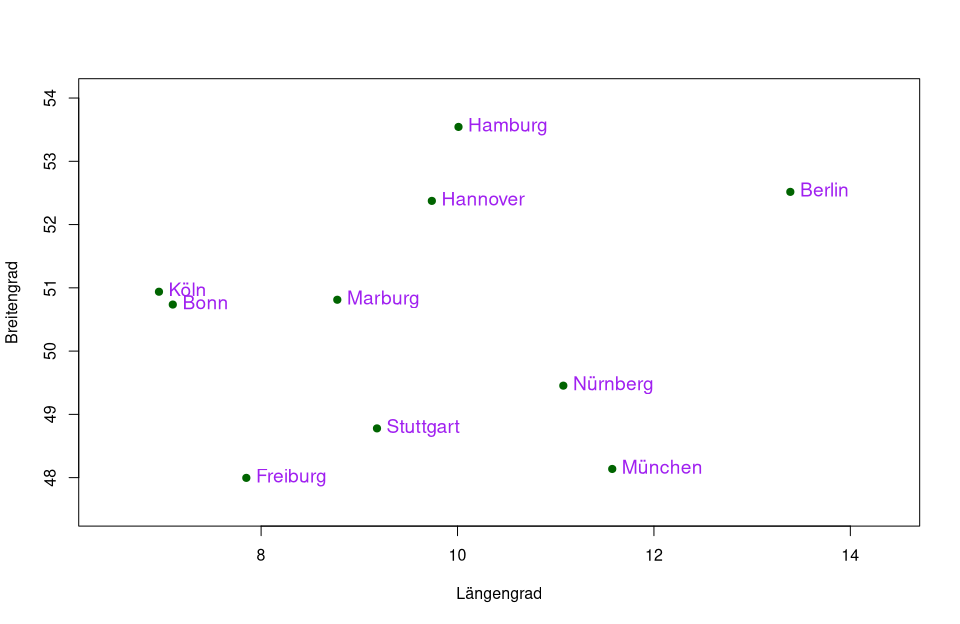
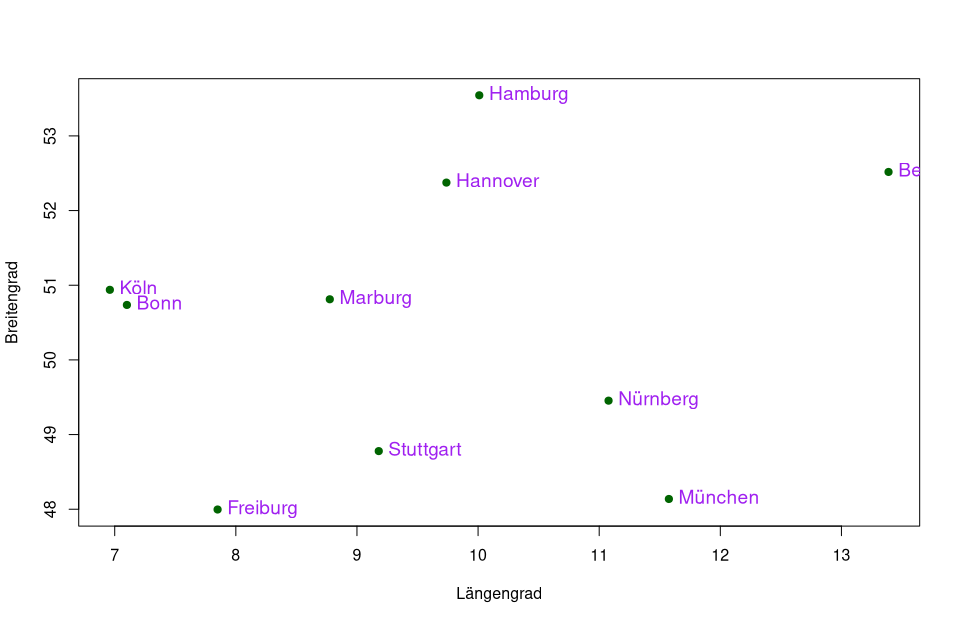
add r-spielerei and a lot of typos

diff --git a/docs/units/_unit04/unit04-02_sitzung.md b/docs/units/_unit04/unit04-02_sitzung.md
@@ -202,7 +202,6 @@ hist(r9, main='', col=rev(terrain.colors(10)), xlim=c(0,125000), breaks=seq(0, 1
 *Abbildung 04-02-04: 3x3 Matrix der unterschiedlichen Zonen-Histogramme*
 
 
-
 ## Distanz
 
 Als Distanz wird die Entfernung von zwei Positionen bezeichnet. Sie kann zunächst einmal als ein zentrales Konzept der Geographie angenommen werden. Erinnern sie sich an Waldo Toblers ersten Satz zur Geographie, dass "*alles mit allem anderen verwandt ist, aber nahe Dinge mehr verwandt sind als ferne Dinge*".  Die Entfernung ist scheinbar sehr einfach zu bestimmen. Natürlich können wir die Entfernung auf eine isometrischen und isomorhpen Fläche mittels der "*Luftlinie*" (euklidische Distanz) berechnen. Zentrales Problem ist das diese Betrachtung häufig wenn in der Regel nicht relevant ist. Es gibt nicht nur (nationale) Grenzen, Gebirge oder beliebige andere Hindernisse, die Entfernung zwischen A und B kann auch asymmetrisch sein (bergab geht's einfacher und  schneller  als bergauf). Das heißt Distanzen können auch über z.B. *Distanzkosten* gewichtet werden.
@@ -210,9 +209,17 @@ Als Distanz wird die Entfernung von zwei Positionen bezeichnet. Sie kann zunäch
 Üblicherweise werden Distanzen in einer "Distanzmatrix" dargestellt. Eine solche Matrix enthält als Spaltenüberschriften und als Zeilenbeschriftung die Kennung von jedem berechneten Ort. Im jedem Feld wird die Entfernung eingetragen. Für kartesische Koordinaten erfolgt dies einfach über den Satz des Pythagoras.
 
 Betrachten wir diese Zusammenhänge einmal ganz praktisch:
+### Berechnen der Distanz-Matrix
+Wir erstellen für eine Anzahl Punkte eine Distanzmatrix. Wenn die Positionen in Länge/Breite angegeben sind wird es deutlich aufwendiger. In diesem Fall können wir die Funktion `pointDistance` aus dem `raster` Paket verwenden (allerdings nur wenn das Koordinatensystem korrekt angegeben wird). Eleganter ist jedoch die Erzeugung von Punktdaten als `sf` Objekt. Es ist leicht möglich  beliebige reale Punktdaten mit Hilfe des `tidygeocoder` Pakets zu erzeugen.Wir geben lediglich eine Städte oder Adressliste an.
 
-Wir erstellen für eine Anzahl Punkte eine Distanzmatrix. Wenn die Positionen in Länge/Breite angegeben sind wird es deutlich aufwendiger. In diesem Fall können wir die Funktion `pointDistance` aus dem `raster` Paket verwenden (allerdings nur wenn das Koordinatensystem korrekt angegeben wird). Eleganter ist jedoch die Erzeugung von Punktdaten als `sf` Objekt. Es ist leicht möglich  beliebige reale Punktdaten mit Hilfe des `tidygeocoder` Pakets zu erzeugen.Wir geben lediglich eine Städte oder Adressliste an:
 
+#### R-Spielerei
+Erzeugen Sie eine eigene Städteliste.
+{: .notice--warning}
+
+### Erzeugen einer geokodierten Punktliste
+ Zur direkten Überprüfung ob die Punkte richtig geokodiert sind eignet sich nach Erzeugung des Punkte-Objekts die Funktion  `mapview` hervorragend.
+ 
 
 ```r
 # Erzeugen von beliebigen Punkten mit Hilfe von tidygeocoder
@@ -231,41 +238,50 @@ coord_city = lapply(staedte, function(x){
 # Umwandeln der Liste in eine Matrix mit den Stadtnamen und Spalten die Lat Lon benannt sind
 geo_coord_city = do.call("rbind", coord_city)
 
-# plotten der Punkte
+# visualize with mapview
 mapview(geo_coord_city,  color='red',legend = FALSE)
 ```
 
-
-Zuerst die Ausgabe mit dem Paket `mapview`.
-
 {% include media url="/assets/misc/geo_city_city.html" %}
-[Full-screen version of the map]({{ site.baseurl }}/assets/misc/geo_city_city.html){:target="_blank"}
+[Full-Screen Version der Karte]({{ site.baseurl }}/assets/misc/geo_city_city.html){:target="_blank"}
 
 *Abbildung 04-02-05: Webkarte mit den erzeugten Punktdaten. In diesem Falle zehn nicht ganz zufällige Städte Deutschlands*
 
-Dann die klassische Variante mit der `plot` Funktion.
+### Plotten der Daten mit der plot Funktion
+Die klassische Variante mit der `plot` Funktion ist ist zwar für den Alltag sehr einfach zu nutzen aber für das Erstellen anspruchsvollerer Grafiken oder Karten aber im Detail doch sehr aufwändig. Da wir es hier mit einem `R` Vektorobjekt des  Paket `sf` zu tun haben kann die "Veteran-Funktion" `plot()`  nicht direkt mit den Koordinaten umgehen. Hierfür nutzen wir die Funktion `st_coordinates()`  die auf die Koordinatenpaare zugreift und diese als Matrix zurückgibt. Da es sich um einen `data.frame` (also die R-Tabelle) handelt kann mit den eckigen Klammern beliebig auf Spalten zugegriffen werden. 
 
 
 ```r
-# Festlegen der Grafik-Ausgabe
-
 # klassisches Plotten eines sf Objects  erfordert den Zugriff auf die Koordinatenpaare
 # mit Hilfe der Funktion st_coordinates(geo_coord_city) leicht möglich
-# mit Hilfe der Funktion min(st_coordinates(geo_coord_city)[,1]) werden 
-# minimum und maximum Ausdehnung bestimmt 
+# schliesslich wird mit der Funktion text() die Beschriftung hinzugefügt
 plot(st_coordinates(geo_coord_city),
-     xlim = c(min(st_coordinates(geo_coord_city)[,1]) - 0.5 
-              ,max(st_coordinates(geo_coord_city)[,1]) + 1), 
-     ylim = c(min(st_coordinates(geo_coord_city)[,2]) - 0.5
-              ,max(st_coordinates(geo_coord_city)[,2]) + 0.5),
      pch=20, cex=1.5, col='darkgreen', xlab='Längengrad', ylab='Breitengrad')
 text(st_coordinates(geo_coord_city), labels = staedte, cex=1.2, pos=4, col="purple")
 ```
 
 <img src="{{ site.baseurl }}/assets/images/unit04/points-2-1.png" width="800px" height="600px" />
 
+#### R-Spielerei
+Mit Hilfe der Funktion `min(st_coordinates(geo_coord_city)[,1])` kann der Minimum-X-Wert ermittelt werden. Analog gilt das für die übrigen Werte. Das Aufaddieren von 0.5 dient nur der besseren Platzierung der Beschriftung. Bauen sie die unten auskommentierten so in den Plot-Befehl ein, dass die Beschriftung von Berlin sichtbar wird. Besdenken Sie dass die einzelnen Elemente des Plot Befehls wie in einer Liste durch Kommata getrennt werden.
+{: .notice--warning}
+
+
+```r
+## mit Hilfe der Funktion min(st_coordinates(geo_coord_city)[,1]) werden 
+## minimum und maximum Ausdehnung bestimmt 
+## xlim und ylim sind die Minimum und Maximum Koordinaten der Plotausdehnung
+
+# xlim = c(min(st_coordinates(geo_coord_city)[,1])  - 0.5 
+#         ,max(st_coordinates(geo_coord_city)[,1]) + 0.5)
+
+# ylim = c(min(st_coordinates(geo_coord_city)[,2])  - 0.5
+#         ,max(st_coordinates(geo_coord_city)[,2]) + 0.5)
+```
+
 *Abbildung 04-02-06: Klassische Plot-Ausgabe mit den erzeugten Punktdaten. Erneut zehn nicht ganz zufällige Städte Deutschlands*
 
+### Distanzberechnung von Geokoordinaten
 Die Berechnung der Distanzen zwischen den 10 Städten greift einigermaßen tief in Geodaten-Verarbeitung ein. Die Punkte werden über die Funktion `tidygeocoder::geo_osm` mit Hilfe der Stadtnamen erzeugt. Standardisiert werden Kugelkoordinaten (also geographische Koordinaten) erzeugt also Längen und Breitengrade auf Grundlage des WGS84 Datum. Auf einem Ellipsoid ist es deutlich aufwendiger (oder fehlerträchtiger) Entfernungen zu rechnen als in in einem projizierten (also kartesischen) Koordinatensystem da hier sphärische Trigonometrie im Gegensatz zum Satz des Pythagoras zur Anwendung kommt.
 
 Daher transformieren wir zunächst den Datensatz in das amtlich gültige [Referenzsystem](https://de.wikipedia.org/wiki/Europ%C3%A4isches_Terrestrisches_Referenzsystem_1989) für Deutschland nämlich `ETRS89/UTM`. Zur Zuweisung werden viele konkurrierende Systeme verwendet. Im nachstehenden Beispiel nutzen wir die [EPSG](https://de.wikipedia.org/wiki/European_Petroleum_Survey_Group_Geodesy#EPSG-Codes) Konvention. Für das zuvor genannte System ist das der [EPSG-Code 25832](https://epsg.io/25832).
@@ -305,33 +321,21 @@ dist_setNames(city_distanz, staedte)
 ```
 
 ```r
-city_distanz
+round(city_distanz,0)
 ```
 
 ```
-##           1        2        3        4        5        6        7        8
-## 2  504156.6                                                               
-## 3  611337.7 253841.6                                                      
-## 4  456511.6 477393.1 356810.5                                             
-## 5  434329.5 478145.8 370325.9  24607.7                                    
-## 6  489061.8 248686.4 131348.9 249893.3 258162.1                           
-## 7  150928.4 377495.0 460900.6 337014.5 318118.3 338167.6                  
-## 8  190926.8 511243.2 533104.9 288316.8 264173.9 401815.7 157508.4         
-## 9  278029.8 639022.5 635366.9 333440.4 309440.8 505124.9 287407.8 131404.0
-## 10 359924.1 371191.0 315365.1 128538.4 118421.0 186154.7 223271.1 227925.4
-##           9
-## 2          
-## 3          
-## 4          
-## 5          
-## 6          
-## 7          
-## 8          
-## 9          
-## 10 320161.6
+##         1      2      3      4      5      6      7      8      9
+## 2  504157                                                        
+## 3  611338 253842                                                 
+## 4  456512 477393 356811                                          
+## 5  434330 478146 370326  24608                                   
+## 6  489062 248686 131349 249893 258162                            
+## 7  150928 377495 460901 337014 318118 338168                     
+## 8  190927 511243 533105 288317 264174 401816 157508              
+## 9  278030 639023 635367 333440 309441 505125 287408 131404       
+## 10 359924 371191 315365 128538 118421 186155 223271 227925 320162
 ```
-
-
 
 Wir erzeugen aus der Distanz-Matrix `class = dist` eine normale R-Matrix. Leider müssen dann die Namen wieder zugewiesen werden.
 
@@ -345,7 +349,11 @@ colnames(city_distanz)=staedte
 
 
 ```r
-# Ausgabe einer hübscheren Tabelle mit kintr::kable die Notation ist das sogennante pipen aus der tidyverse Welt
+# Ausgabe einer hübscheren Tabelle mit kintr::kable 
+# die Notation mit ist das sogennante "pipen" aus der tidyverse Welt
+# hier werden die Daten und Verarbeitungsschritte von der erstenVariable in
+# die nächste weitergeleitet
+
 knitr::kable(city_distanz) %>%
   kable_styling(bootstrap_options = "striped", full_width = F)
 ```
@@ -939,7 +947,7 @@ plot(kreise_dist_k5, lwd =1, coords, add=TRUE,col="red")
 
 #### Distanz-basierte Nachbarschaft
 
-nachfolgend wird für den Mittelwert, das dritte Quartil und den Maximalwert der Distanzverteilung aller Kreis-Zentroide die Nachbarschaft bestimmt.
+Nachfolgend wird für den Mittelwert, das dritte Quartil und den Maximalwert der Distanzverteilung aller Kreis-Zentroide die Nachbarschaft bestimmt.
 
 
 ```r
@@ -1020,13 +1028,10 @@ plot(nuts3_kreise_rook, coords, col='red', lwd=2, add=TRUE)
 
 Wie bereits bekannt ist hängt der Wert von Morans I deutlich von den Annahmen ab, die in die räumliche Gewichtungsmatrix verwendet werden. Die Idee ist, eine Matrix zu konstruieren, die Ihre Annahmen über das jeweilige räumliche Phänomen passend wiedergibt. Der übliche Ansatz besteht darin, eine Gewichtung von 1 zu geben, wenn zwei *Zonen* Nachbarn sind falls nicht wird eine 0 vergeben. Natürlich variiert die Definition von *Nachbarn* (vgl. Reader räumliche Konzepte und oben). Quasi-kontinuierlich ist der Ansatz eine inverse Distanzfunktion zur Bestimmung der Gewichte zu verwenden. Auch wenn in der Praxis fast nie vorzufinden sollte die Auswahl räumlicher Gewichtungsmatritzen das betreffende Phänomen abbilden. So ist die Benachbartheit entlang von Autobahnen für Warentransporte anders zu gewichten als beispielsweise über ein Gebirge oder einen See.
 
-Der Moran-I-Test und der Geary C Test sind übliche Verfahren für die Überprüfung räumlicher Autokorrelation. Das Geary's-C ist invers mit Moran's-I, aber nicht identisch. Moran's-I ist eher ein Maß für die globale räumliche Autokorrelation, während Geary's-C eher auf eine lokale räumliche Autokorrelation reagiert. 
+Der Moran-I-Test und der Geary C Test sind übliche Verfahren für die Überprüfung räumlicher Autokorrelation. Das Geary's-C ist invers mit Moran's-I, aber nicht identisch. Moran's-I ist eher ein Maß für die globale räumliche Autokorrelation, während Geary's-C eher auf eine lokale räumliche Autokorrelation reagiert. Hier die gängige Formel für Moran's I:
 
 \\[I = \frac{n}{\sum_{i=1}^{n}\sum_{j=1}^{n}w_{ij}}
 \frac{\sum_{i=1}^{n}\sum_{j=1}^{n}w_{ij}(x_i-\bar{x})(x_j-\bar{x})}{\sum_{i=1}^{n}(x_i - \bar{x})^2}\\]
-
-\\[ C = \frac{(n-1)}{2\sum_{i=1}^{n}\sum_{j=1}^{n}w_{ij}}
-\frac{\sum_{i=1}^{n}\sum_{j=1}^{n}w_{ij}(x_i-x_j)^2}{\sum_{i=1}^{n}(x_i - \bar{x})^2}\\]
 
 
 wobei \\(x_i, i=1, \ldots, n\\)   \\({n}\\) Beobachtungen der interessierenden numerischen Variablen und \\(w_{ij}\\) die räumlichen Gewichte sind.
@@ -1104,6 +1109,9 @@ moran.plot (residuen_uni_bau, nuts3_gewicht)
 
 *Abbildung 04-02-08: Moran-I Plot*
 
+#### R-Spielerei
+Mit Hilfe der Funktion `poly2nb(nuts3_kreise, row.names=nuts3_kreise$NUTS_NAME, queen=FALSE)` wird eine Nachbarschaftsbeziehung erzeugt. Erzeugen Sie für eine distanzbasierte Nachbarschaft mit einer *Queens-Nachbarschaft*, die das erste Quartil der Distanzverteilung als Schwellwert nutzt analog zum gegebenen Beispiel einen Moran I Monte Carlo Test
+{: .notice--warning}
 
 Für mehr Informationen kann unter den folgenden Ressourcen nachgeschaut werden: 
 

diff --git a/docs/units/_unit04/unit04-01_sitzung.md b/docs/units/_unit04/unit04-01_sitzung.md
@@ -247,21 +247,24 @@ saveRDS(nuts3_kreise,"nuts3_kreise.rds")
 
 # 3 - Ergebnisausgabe und Visualisierung 
 #--------------------
+```
+### Darstellung der Daten mit dem Paket `tmap`
+`tmap` ist das derzeit wohl erfolgreichste und vielseitigste Kartographie-Paket in der R-Welt. Hier ein ganz einfaches Beispiel zuer Erzeugung statischer Karten. 
 
-
-
-
-# Plotten der drei Distanzen
+```r
+# Einstellen der Plotausgabe 1 Reihe , zwei Abbildungen Beschriftungen Stil1
 par(mfrow=c(1,2), las=1)
 # Darstellung mit tmap Farbgebung nach Anteil.Baugewerbe
 tm_shape(nuts3_kreise, projection = 25832) + 
   tm_polygons(c("Anteil.Baugewerbe","Anteil.Hochschulabschluss"),    breaks=seq(0,0.2, by=0.025))
 ```
 
-![]({{ site.baseurl }}/assets/images/unit04/setup-1.png)<!-- -->
+![]({{ site.baseurl }}/assets/images/unit04/tmap-1.png)<!-- -->
 
 *Abbildung 04-01-01: Statische Karte a) Anteil Baugewerbe, b) Anteil Hochschulabschluss*
 
+### Darstellung der Daten mit mapview
+Das Paket `mapview` eignet sich besonders für eine schnelle interaktive Visualisierung der Daten auf der Grundlage einer Vielzahl von webbasierten Karten. Gerade für die explorative Interpretation oder aber auch für die visuelle Überprüfung der korrekten Lage der Daten ist dieses Paket ein sehr gute Alltagsunterstützung.
 
 
 ```r
@@ -270,7 +273,6 @@ tm_shape(nuts3_kreise, projection = 25832) +
 nuts3_kreise = readRDS(paste0(rootDIR,"nuts3_kreise.rds"))
 mapview(nuts3_kreise,zcol="Anteil.Baugewerbe",breaks=seq(0,0.2, by=0.025))+mapview(nuts3_kreise,zcol="Anteil.Hochschulabschluss",breaks=seq(0,0.2, by=0.025))
 ```
-
 Die Karte kann auch mit Hilfe des Pakets `mapview` interaktiv dargestellt werden.
 
 {% include media url="/assets/misc/nuts3_kreise.html" %}
@@ -279,7 +281,7 @@ Die Karte kann auch mit Hilfe des Pakets `mapview` interaktiv dargestellt werden
 *Abbildung 04-01-02: Dynamische Webkarte  mit den Layern a) Anteil Baugewerbe, b) Anteil Hochschulabschluss*
 
 ## Download Skript
-Das Skript kann unter [arbeitsblatt_01]({{ site.baseurl }}/assets/scripts/arbeitsblatt_01.R){:target="_blank"} heruntergeladen werden
+Das Skript kann unter [unit04-01_sitzung.R]({{ site.baseurl }}/assets/scripts/unit04-01_sitzung.R){:target="_blank"} heruntergeladen werden
 
 ## Bearbeiten Sie…
 Versuchen Sie  `R`, `Rstudio` und die notwendigen Pakete zu installieren. Bei Fragen nutzen Sie bitte das Forum. Falls erfolgreich Versuchen Sie bitte folgende Aufgaben zu bearbeiten:
